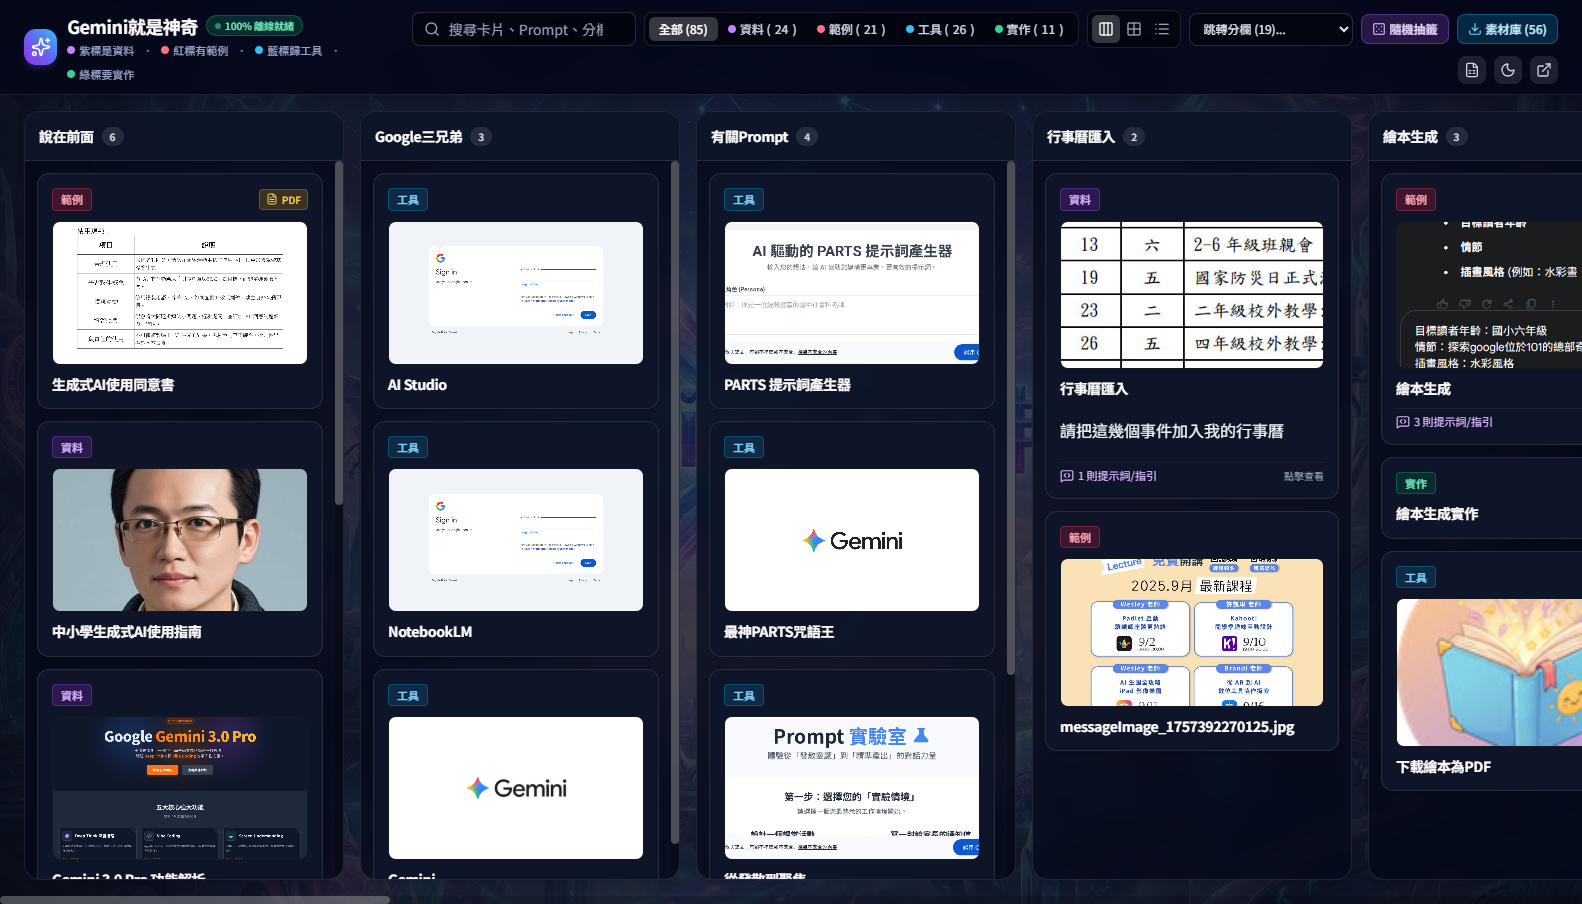
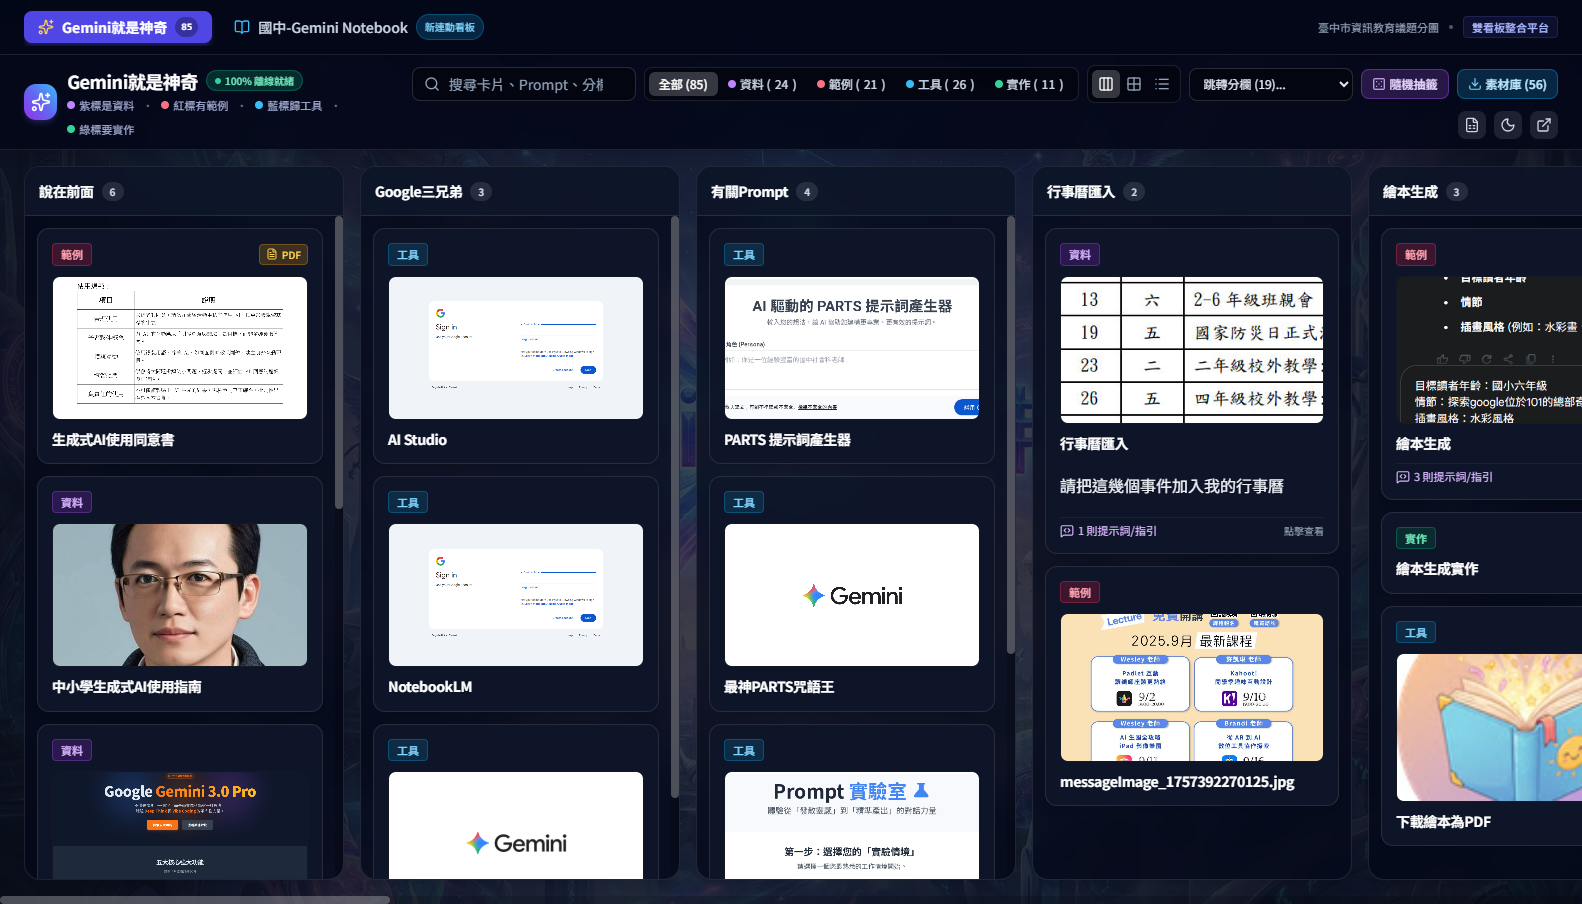
feat: 合併 國中-Gemini Notebook 看板，新增最上方雙看板切換標籤與連動視窗

diff --git a/index.html b/index.html
@@ -3,7 +3,7 @@
 <head>
   <meta charset="UTF-8">
   <meta name="viewport" content="width=device-width, initial-scale=1.0">
-  <title>Gemini就是神奇 - Google AI 雙刀流全方位功能實戰看板</title>
+  <title>Gemini就是神奇 × 國中-Gemini Notebook - Google AI 雙刀流全方位實戰看板</title>
   
   <!-- Favicon -->
   <link rel="icon" type="image/svg+xml" href="https://padlet.net/favicon.svg">
@@ -105,8 +105,31 @@
 </head>
 <body class="text-slate-100 flex flex-col h-screen overflow-hidden antialiased select-none">
 
-  <!-- ================= TOP HEADER ================= -->
-  <header class="flex-none bg-slate-900/90 dark:bg-slate-950/85 backdrop-blur-md border-b border-white/10 px-4 md:px-6 py-2.5 flex flex-col md:flex-row items-center justify-between gap-3 z-30 shadow-lg">
+  <!-- ================= TOPMOST APPLICATION BAR (TAB SWITCHER) ================= -->
+  <div class="flex-none bg-slate-950/95 border-b border-white/10 px-4 md:px-6 py-2 flex items-center justify-between gap-3 z-40 backdrop-blur-md shadow-md">
+    <div class="flex items-center gap-2 overflow-x-auto">
+      <button id="navTabGemini" class="nav-app-tab active px-3.5 py-1.5 rounded-lg text-xs md:text-sm font-bold flex items-center gap-2 transition-all bg-indigo-600 text-white shadow-md shadow-indigo-600/30">
+        <i data-lucide="sparkles" class="w-4 h-4 text-amber-300"></i>
+        <span>Gemini就是神奇</span>
+        <span class="px-1.5 py-0.2 rounded-full text-[10px] bg-black/30 font-mono">85</span>
+      </button>
+
+      <button id="navTabNotebook" class="nav-app-tab px-3.5 py-1.5 rounded-lg text-xs md:text-sm font-medium flex items-center gap-2 transition-all text-slate-300 hover:text-white hover:bg-white/10">
+        <i data-lucide="book-open" class="w-4 h-4 text-sky-400"></i>
+        <span>國中-Gemini Notebook</span>
+        <span class="px-2 py-0.5 rounded-full text-[10px] bg-sky-500/20 text-sky-300 border border-sky-500/30 font-medium">新連動看板</span>
+      </button>
+    </div>
+
+    <div class="flex items-center gap-2.5 flex-none">
+      <span class="hidden sm:inline-flex text-[11px] text-slate-400">臺中市資訊教育議題分團</span>
+      <span class="hidden sm:inline-block w-1 h-1 rounded-full bg-slate-600"></span>
+      <span class="text-[11px] text-indigo-300 font-semibold bg-indigo-500/10 px-2 py-0.5 rounded border border-indigo-500/20">雙看板整合平台</span>
+    </div>
+  </div>
+
+  <!-- ================= TAB 1: GEMINI就是神奇 CONTROLS HEADER ================= -->
+  <header id="geminiHeader" class="flex-none bg-slate-900/90 dark:bg-slate-950/85 backdrop-blur-md border-b border-white/10 px-4 md:px-6 py-2.5 flex flex-col md:flex-row items-center justify-between gap-3 z-30 shadow-lg">
     
     <!-- Title & Legend -->
     <div class="flex items-center gap-3 w-full md:w-auto justify-between md:justify-start">
@@ -211,8 +234,8 @@
     </div>
   </header>
 
-  <!-- MOBILE FILTER BAR -->
-  <div class="xl:hidden flex items-center justify-between px-4 py-2 bg-black/60 border-b border-white/10 text-xs overflow-x-auto gap-2 z-20">
+  <!-- MOBILE FILTER BAR (TAB 1) -->
+  <div id="geminiMobileFilter" class="xl:hidden flex items-center justify-between px-4 py-2 bg-black/60 border-b border-white/10 text-xs overflow-x-auto gap-2 z-20">
     <div class="flex items-center gap-1.5 flex-none">
       <button data-filter="all" class="filter-btn active px-2 py-0.5 rounded-md bg-white/20 text-white">全部 (85)</button>
       <button data-filter="purple" class="filter-btn px-2 py-0.5 rounded-md text-slate-300">🟣 資料 (24)</button>
@@ -222,8 +245,8 @@
     </div>
   </div>
 
-  <!-- ================= MAIN VIEWS CONTAINER ================= -->
-  <main class="flex-1 relative overflow-hidden">
+  <!-- ================= TAB 1 MAIN VIEWS CONTAINER ================= -->
+  <main id="geminiMainContainer" class="flex-1 relative overflow-hidden">
     
     <!-- VIEW 1: BOARD / SHELF HORIZONTAL SCROLL -->
     <div id="boardView" class="h-full flex overflow-x-auto overflow-y-hidden px-4 md:px-6 py-4 gap-4 scroll-smooth">
@@ -244,6 +267,75 @@
       </div>
     </div>
   </main>
+
+  <!-- ================= TAB 2: 國中-GEMINI NOTEBOOK VIEW CONTAINER ================= -->
+  <section id="notebookMainContainer" class="hidden flex-1 flex flex-col overflow-hidden bg-slate-950/80 backdrop-blur-md">
+    
+    <!-- Sub-header bar for Notebook Tab -->
+    <div class="flex-none bg-slate-900/90 border-b border-white/10 px-4 md:px-6 py-2.5 flex flex-col md:flex-row items-center justify-between gap-3 shadow-md z-20">
+      <div class="flex items-center gap-3">
+        <div class="w-8 h-8 rounded-lg bg-sky-500/20 text-sky-400 border border-sky-500/30 flex items-center justify-center font-bold">
+          <i data-lucide="book-open" class="w-4 h-4"></i>
+        </div>
+        <div>
+          <div class="flex items-center gap-2">
+            <h2 class="text-sm md:text-base font-bold text-white tracking-tight">國中-Gemini Notebook 協作看板</h2>
+            <span class="px-2 py-0.5 rounded text-[10px] font-semibold bg-sky-500/20 text-sky-300 border border-sky-500/30">Padlet 連動鏡像</span>
+            <span class="px-2 py-0.5 rounded text-[10px] font-medium bg-amber-500/20 text-amber-300 border border-amber-500/30 flex items-center gap-1">
+              <i data-lucide="lock" class="w-3 h-3"></i> 研習會員權限
+            </span>
+          </div>
+          <p class="text-[11px] text-slate-400">結合 Gemini Notebook 知識庫、AI 規格化與國中各學科教學備課之專題協作板</p>
+        </div>
+      </div>
+
+      <div class="flex items-center gap-2 flex-wrap self-end md:self-auto">
+        <button id="refreshNotebookIframeBtn" title="重新整理內嵌視窗" class="px-2.5 py-1.5 bg-white/10 hover:bg-white/20 text-slate-200 rounded-lg text-xs font-medium flex items-center gap-1.5 transition-colors">
+          <i data-lucide="rotate-cw" class="w-3.5 h-3.5"></i>
+          <span>重新載入</span>
+        </button>
+
+        <a href="https://padlet.com/inforissuescounseling/gemini-notebook-5oeo73b93q2co043" target="_blank" rel="noopener noreferrer" class="px-3 py-1.5 bg-sky-600 hover:bg-sky-500 text-white rounded-lg text-xs font-semibold flex items-center gap-1.5 shadow transition-all">
+          <i data-lucide="external-link" class="w-3.5 h-3.5"></i>
+          <span>在新分頁開啟原版看板</span>
+        </a>
+
+        <button id="toggleNotebookInfoBtn" class="px-2.5 py-1.5 bg-purple-500/20 hover:bg-purple-500/30 border border-purple-500/30 text-purple-200 rounded-lg text-xs font-semibold flex items-center gap-1.5 transition-all">
+          <i data-lucide="info" class="w-3.5 h-3.5 text-purple-300"></i>
+          <span>看板說明與指引</span>
+        </button>
+      </div>
+    </div>
+
+    <!-- Info Banner (Collapsible) -->
+    <div id="notebookInfoBanner" class="flex-none bg-indigo-950/70 border-b border-indigo-500/20 px-4 md:px-6 py-3 text-xs text-indigo-100 flex flex-col md:flex-row items-start md:items-center justify-between gap-3">
+      <div class="flex items-start gap-2.5">
+        <i data-lucide="sparkles" class="w-4 h-4 text-indigo-400 flex-none mt-0.5"></i>
+        <div class="space-y-1">
+          <p class="font-medium text-white">【研習登入與存取說明】</p>
+          <p class="text-indigo-200/90 leading-relaxed">
+            此看板設有 Padlet 會員存取保護（Members Only）。若下方視窗顯示「嘿，陌生人！」或登入提示，您只需在該視窗中直接登入授權之 Google/Padlet 帳號，或點擊上方「在新分頁開啟原版看板」，登入後即可直接在此無縫互動瀏覽所有內容！
+          </p>
+        </div>
+      </div>
+      <button id="closeNotebookInfoBannerBtn" class="text-indigo-400 hover:text-white flex-none p-1">
+        <i data-lucide="x" class="w-4 h-4"></i>
+      </button>
+    </div>
+
+    <!-- Interactive Embed Frame Container -->
+    <div class="flex-1 relative p-2 md:p-4 overflow-hidden flex flex-col">
+      <div class="w-full h-full rounded-2xl overflow-hidden border border-white/10 shadow-2xl relative bg-slate-900 flex flex-col">
+        <iframe 
+          id="notebookIframe" 
+          src="https://padlet.com/inforissuescounseling/gemini-notebook-5oeo73b93q2co043" 
+          class="w-full h-full border-0" 
+          allow="camera; microphone; geolocation"
+          title="國中-Gemini Notebook Padlet 看板"
+        ></iframe>
+      </div>
+    </div>
+  </section>
 
   <!-- ================= CARD DETAIL MODAL ================= -->
   <div id="cardDetailModal" class="fixed inset-0 z-50 flex items-center justify-center p-3 sm:p-6 bg-black/80 backdrop-blur-sm hidden opacity-0 transition-opacity duration-200">
@@ -358,8 +450,22 @@
     let currentView = 'board'; // 'board' | 'grid' | 'list'
     let currentModalCardIndex = 0;
     let visibleCards = [...cards];
+    let currentAppTab = 'gemini'; // 'gemini' | 'notebook'
 
-    // DOM Elements
+    // DOM Elements - Tabs
+    const navTabGemini = document.getElementById('navTabGemini');
+    const navTabNotebook = document.getElementById('navTabNotebook');
+    const geminiHeader = document.getElementById('geminiHeader');
+    const geminiMobileFilter = document.getElementById('geminiMobileFilter');
+    const geminiMainContainer = document.getElementById('geminiMainContainer');
+    const notebookMainContainer = document.getElementById('notebookMainContainer');
+    const notebookIframe = document.getElementById('notebookIframe');
+    const refreshNotebookIframeBtn = document.getElementById('refreshNotebookIframeBtn');
+    const toggleNotebookInfoBtn = document.getElementById('toggleNotebookInfoBtn');
+    const notebookInfoBanner = document.getElementById('notebookInfoBanner');
+    const closeNotebookInfoBannerBtn = document.getElementById('closeNotebookInfoBannerBtn');
+
+    // DOM Elements - Gemini Board
     const boardView = document.getElementById('boardView');
     const gridView = document.getElementById('gridView');
     const listView = document.getElementById('listView');
@@ -406,6 +512,51 @@
     const downloadsListContainer = document.getElementById('downloadsListContainer');
     const randomDrawBtn = document.getElementById('randomDrawBtn');
     const exportCsvBtn = document.getElementById('exportCsvBtn');
+
+    // ================= APP TAB SWITCHING =================
+    function switchAppTab(tab) {
+      currentAppTab = tab;
+      if (tab === 'gemini') {
+        navTabGemini.classList.add('bg-indigo-600', 'text-white', 'shadow-md', 'shadow-indigo-600/30', 'font-bold');
+        navTabGemini.classList.remove('text-slate-300', 'hover:bg-white/10', 'font-medium');
+
+        navTabNotebook.classList.remove('bg-sky-600', 'text-white', 'shadow-md', 'shadow-sky-600/30', 'font-bold');
+        navTabNotebook.classList.add('text-slate-300', 'hover:bg-white/10', 'font-medium');
+
+        geminiHeader.classList.remove('hidden');
+        geminiMobileFilter.classList.remove('hidden');
+        geminiMainContainer.classList.remove('hidden');
+        notebookMainContainer.classList.add('hidden');
+      } else {
+        navTabNotebook.classList.add('bg-sky-600', 'text-white', 'shadow-md', 'shadow-sky-600/30', 'font-bold');
+        navTabNotebook.classList.remove('text-slate-300', 'hover:bg-white/10', 'font-medium');
+
+        navTabGemini.classList.remove('bg-indigo-600', 'text-white', 'shadow-md', 'shadow-indigo-600/30', 'font-bold');
+        navTabGemini.classList.add('text-slate-300', 'hover:bg-white/10', 'font-medium');
+
+        geminiHeader.classList.add('hidden');
+        geminiMobileFilter.classList.add('hidden');
+        geminiMainContainer.classList.add('hidden');
+        notebookMainContainer.classList.remove('hidden');
+      }
+      lucide.createIcons();
+    }
+
+    navTabGemini.addEventListener('click', () => switchAppTab('gemini'));
+    navTabNotebook.addEventListener('click', () => switchAppTab('notebook'));
+
+    refreshNotebookIframeBtn.addEventListener('click', () => {
+      notebookIframe.src = notebookIframe.src;
+      showToast('🔄 正在重新整理 國中-Gemini Notebook 視窗...');
+    });
+
+    toggleNotebookInfoBtn.addEventListener('click', () => {
+      notebookInfoBanner.classList.toggle('hidden');
+    });
+
+    closeNotebookInfoBannerBtn.addEventListener('click', () => {
+      notebookInfoBanner.classList.add('hidden');
+    });
 
     // Initialize Counts
     function initStats() {

diff --git a/README.md b/README.md
@@ -1,27 +1,29 @@
-# Gemini就是神奇 · 協作看板與完整提示詞庫 (2026年最新版)
+# Gemini就是神奇 × 國中-Gemini Notebook · 雙看板整合平台 (2026年最新版)
 
-> **原始來源**：[Padlet 看板 (Gemini就是神奇)](https://padlet.com/inforissuescounseling/gemini-jlkd6q3f4kuet6gh)  
+> **原始來源**：
+> 1. [Padlet 看板 1：Gemini就是神奇](https://padlet.com/inforissuescounseling/gemini-jlkd6q3f4kuet6gh)  
+> 2. [Padlet 看板 2：國中-Gemini Notebook](https://padlet.com/inforissuescounseling/gemini-notebook-5oeo73b93q2co043)  
 > **作者**：臺中市資訊教育議題分團輔導員 (moodlela)  
 > **核心分類規則**：**紫標是資料 (24)、紅標有範例 (21)、藍標歸工具 (26)、綠標要實作 (11)**  
-> **專案定位**：100% 本機離線鏡像、獨立資料集 (`data.js` / JSON)、全互動分欄看板、瀑布網格與清單三視圖，免外網即可直通全套提示詞、教材手冊 PDF 與示範影片！
+> **專案定位**：雙看板合一架構，在最上方配置一鍵標籤切換，結合 100% 離線鏡像資料集 (`data.js`) 與即時連動視窗，免外網即可直通全套提示詞、教材手冊 PDF 與示範影片！
 
 ---
 
-## 🌟 亮點功能與本機離線規格 (100% Offline Ready)
+## 🌟 雙看板頂部導覽切換 (Top Tabs Navigation)
 
-本專案已透過官方 API 與深度爬蟲技術，將原始 Padlet 看板的所有 19 個分欄、85 張卡片、專家留言提示詞、**全部 71 張高解析度預覽圖片**（包含 2816×1536 高清主題壁紙）以及 **56 份下載附件庫**（包含示範 MP4 影片、PDF 教材手冊、TXT 結構化提示詞庫）完全保存至本機，不依賴任何外部防盜鏈伺服器與過期 Token！
+在網頁最頂部內建 **雙看板一鍵無縫切換標籤**：
 
-### 📦 本機多媒體與檔案素材庫
-- **高清壁紙**：`assets/images/wallpaper.png`（2816×1536 Gemini Generated Image 主題壁紙）
-- **70 張卡片預覽圖**：`assets/images/img_*.png` / `*.jpg`
-- **56 份本機下載附件**（包含但不限於）：
-  1. 🎬 **示範影片 (MP4)**：可以直接在卡片內或放大彈窗中直接播放（例如 `9a9b22be_662c_4789_8e68_7283a649d695.mp4`、`A_character_walks_202510282322.mp4` 等）。
-  2. 📄 **教材手冊 (PDF)**：中小學生成式 AI 使用手冊、測驗解析等。
-  3. 📝 **結構化提示詞 (TXT)**：繪本生成、簡報生成、引導式教學等結構化 Prompt。
+1. **🌟 Gemini就是神奇 (85 張卡片全量離線)**：
+   - 包含 19 個主題分欄、85 張卡片、71 張高解析度預覽縮圖與 56 份下載素材庫。
+   - 支援分欄看板 (Shelves)、瀑布網格 (Grid)、清單條列 (List) 三種檢視視圖。
+   - 具備關鍵字即時搜尋 (`/` 快捷鍵)、顏色標籤篩選、隨機抽籤、Excel 相容 CSV 報表匯出功能。
+2. **📘 國中-Gemini Notebook (最新連動看板)**：
+   - 整合由臺中市資訊教育議題分團輔導員規劃之「國中-Gemini Notebook」專題看板。
+   - 內嵌高畫質自適應互動視窗，並附帶在新分頁開啟、重新載入與存取說明面板。
 
 ---
 
-## 📋 19 個分欄主題
+## 📋 19 個分欄主題 (Gemini就是神奇)
 
 1. **說在前面** (6 張)：自我介紹、Google AI 雙刀流、Gemini 全方位介紹、Gemini 3.0 Pro 功能解析、中小學使用指南、同意書
 2. **Google三兄弟** (3 張)：Gemini、NotebookLM、AI Studio
@@ -45,23 +47,14 @@
 
 ---
 
-## ⚡ 核心功能與互動體驗
+## 📦 本機素材與下載庫規格 (100% Offline Ready)
 
-1. **三種檢視視圖**：
-   - **分欄看板 (Shelves)**：還原 Padlet 最原汁原味的多欄橫向捲動佈局。
-   - **瀑布網格 (Grid)**：大螢幕多欄垂直自適應瀑布流。
-   - **清單條列 (List)**：緊湊資訊行，便於快速搜尋與批次查找。
-2. **多維即時篩選**：
-   - 依「紫標：資料 (24)」、「紅標：範例 (21)」、「藍標：工具 (26)」、「綠標：實作 (11)」即時篩選。
-   - 即時關鍵字搜尋：按鍵盤 `/` 鍵即可快速定位搜尋列，關鍵字自動高亮。
-3. **一鍵複製提示詞**：
-   - 點擊「複製本文內容」或各條留言旁的「複製此段指令」，即刻複製至剪貼簿並顯示綠色 Toast 提示。
-4. **隨機抽籤 (🎲)**：
-   - 點擊頂部「🎲 隨機抽籤」，自動抽取一張卡片跳出互動彈窗，適合課堂互動或備課尋找靈感。
-5. **匯出 CSV 報表 (Excel 相容)**：
-   - 支援一鍵將目前卡片清單匯出為 UTF-8 with BOM 的 CSV，可直接以 Microsoft Excel 開啟且絕不亂碼。
-6. **深色 / 淺色模式切換**：
-   - 內建優雅深色系與明亮清新雙色主題。
+- **高清壁紙**：`assets/images/wallpaper.png`（2816×1536 Gemini Generated Image 主題壁紙）
+- **70 張卡片預覽圖**：`assets/images/img_*.png` / `*.jpg`
+- **56 份本機下載附件**：
+  - 🎬 **示範影片 (MP4)**：直接於卡片與彈窗內建播放器播放。
+  - 📄 **教材手冊 (PDF)**：中小學生成式 AI 使用手冊、測驗解析。
+  - 📝 **結構化提示詞 (TXT)**：繪本生成、簡報生成、引導式教學等結構化 Prompt。
 
 ---
 
@@ -83,5 +76,5 @@
 1. 本專案已推播至 GitHub 倉庫：`https://github.com/yaoshuchin/padlet-gemini-magic`
 2. 進入倉庫 **Settings** -> **Pages**
 3. **Build and deployment** 來源選擇 **Deploy from a branch**
-4. Branch 選擇 `master`（或 `main`），目錄選擇 `/ (root)`，點擊 **Save**。
-5. 發布後即可於 `https://yaoshuchin.github.io/padlet-gemini-magic/` 線上瀏覽。
+4. Branch 選擇 `master`，目錄選擇 `/ (root)`，點擊 **Save**。
+5. 線上瀏覽網址：[**https://yaoshuchin.github.io/padlet-gemini-magic/**](https://yaoshuchin.github.io/padlet-gemini-magic/)
